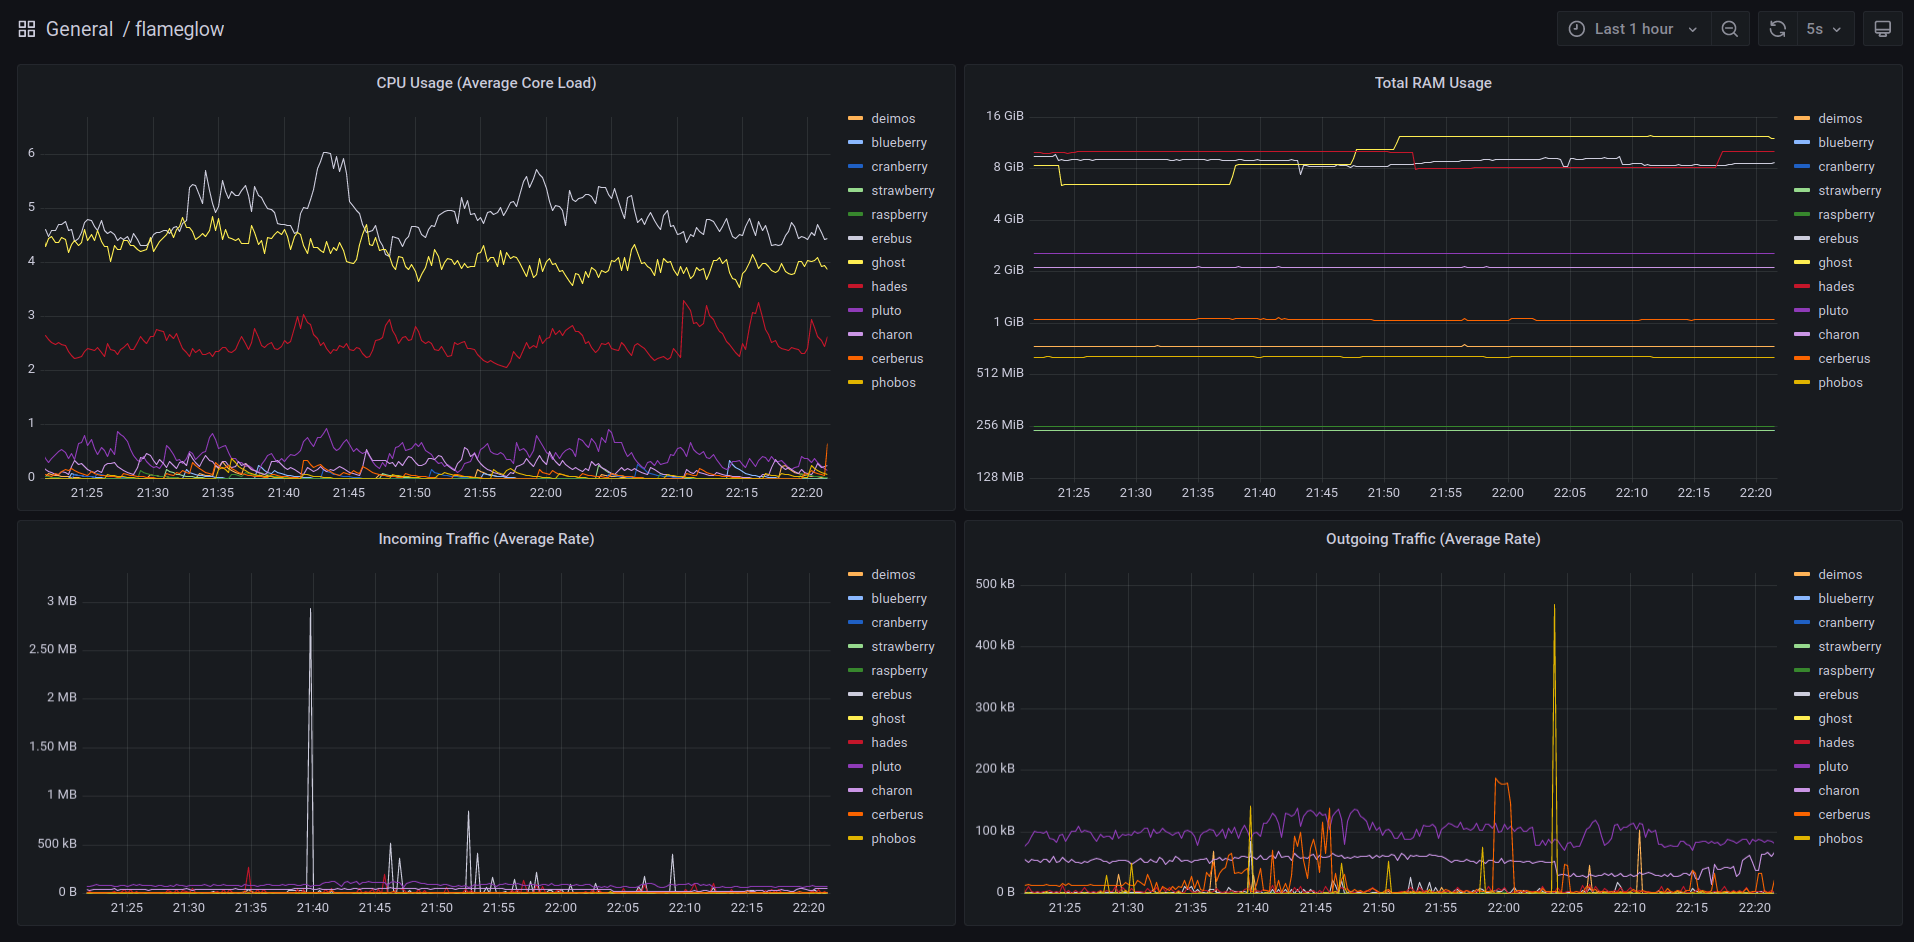
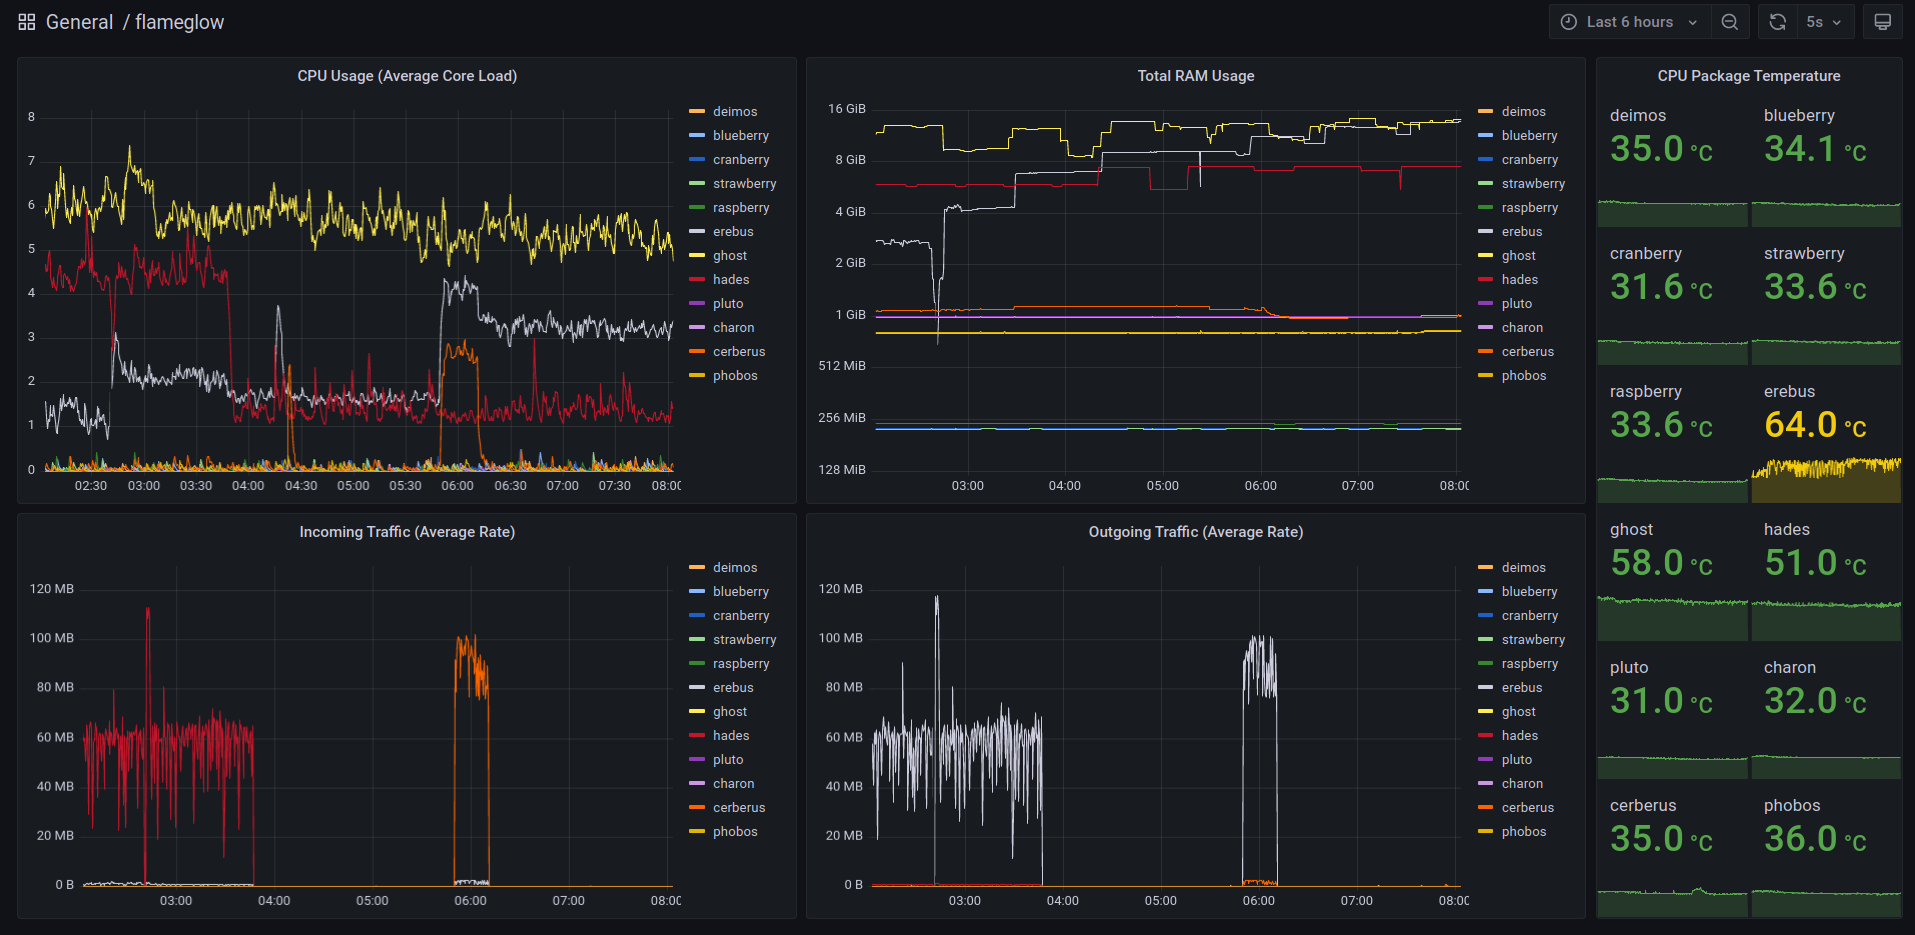
Added support for CPU temperature

diff --git a/scripts/os_stats.py b/scripts/os_stats.py
@@ -1,0 +1,185 @@
+#!/usr/bin/env python3
+'''
+@author: Winter Snowfall
+@version: 1.20
+@date: 08/08/2021
+
+Warning: Built for use with python 3.6+
+'''
+
+import logging
+import os
+from logging.handlers import RotatingFileHandler
+#uncomment for debugging purposes only
+import traceback
+
+##logging configuration block
+log_file_full_path = os.path.join('..', 'logs', 'os_stats.log')
+logger_file_handler = RotatingFileHandler(log_file_full_path, maxBytes=104857600, backupCount=2, encoding='utf-8')
+logger_format = '%(asctime)s %(levelname)s : %(name)s >>> %(message)s'
+logger_file_handler.setFormatter(logging.Formatter(logger_format))
+#logging level for other modules
+logging.basicConfig(format=logger_format, level=logging.ERROR)
+logger = logging.getLogger(__name__)
+logger.addHandler(logger_file_handler)
+
+PROC_LOADAVG_PATH = '/proc/loadavg'
+PROC_MEMINFO_PATH = '/proc/meminfo'
+PROC_UPTIME_PATH = '/proc/uptime'
+PROC_NET_DEV_PATH = '/proc/net/dev'
+
+SYS_RASPBERRY_PI_HOST_TYPE = 'raspberrypi'
+SYS_CPU_THERMAL_ZONE_TYPE_PI = 'cpu-thermal'
+SYS_CPU_THERMAL_ZONE_TYPE_GENERIC = 'x86_pkg_temp'
+
+class os_stats:
+    '''gather host stats using the /proc and /sys OS stat modules'''
+    
+    _logging_level = logging.WARNING
+    
+    def __init__(self, host_type, logging_level):
+        self._net_intf_name = None
+        self._net_intf_bytes_rec_prev = None
+        self._net_intf_bytes_trans_prev = None
+        self._net_intf_bytes_rec = 0
+        self._net_intf_bytes_trans = 0
+        
+        self._thermal_zone_identifier = 0
+        
+        self.avg_cpu_usage = 0
+        self.memory_load = 0
+        self.uptime = 0
+        self.net_rec_rate = 0
+        self.net_trans_rate = 0
+        
+        self.cpu_package_temp = 0
+        
+        #defaults to WARNING otherwise
+        if logging_level == 'DEBUG':
+            self._logging_level = logging.DEBUG
+        elif logging_level == 'INFO':
+            self._logging_level = logging.INFO
+            
+        self._host_type = host_type
+            
+        #logging level for current logger
+        logger.setLevel(self._logging_level)
+        
+        self.detect_thermal_zone_path()
+    
+    def set_net_intf_name(self, net_intf_name):
+        self._net_intf_name = net_intf_name
+    
+    def detect_thermal_zone_path(self):
+        logger.info(f'Detecting CPU package thermal zone for {self._host_type} host type...')
+        
+        try:
+            #how many thermal zones can a system have?
+            for i in range(0, 100):
+                logger.debug(f'Atempting CPU package thermal zone detection for: {i}...')
+                
+                with open(f'/sys/class/thermal/thermal_zone{i}/type', 'r') as zone_type:
+                    detected_zone_type = zone_type.read().strip()
+                    logger.debug(f'detected_zone_type: {detected_zone_type}')
+                    
+                    if self._host_type == SYS_RASPBERRY_PI_HOST_TYPE:
+                        if detected_zone_type == SYS_CPU_THERMAL_ZONE_TYPE_PI:
+                            self._thermal_zone_identifier = i
+                            logger.info('Succesfully detected CPU package thermal zone.')
+                            break
+                    else:
+                        if detected_zone_type == SYS_CPU_THERMAL_ZONE_TYPE_GENERIC:
+                            self._thermal_zone_identifier = i
+                            logger.info('Succesfully detected CPU package thermal zone.')
+                            break
+        except:
+            logger.critical('Thermal zones have been exhausted without detection.')
+            raise
+                 
+    def clear_stats(self):
+        self._net_intf_bytes_rec = 0
+        self._net_intf_bytes_trans = 0
+        
+        self.avg_cpu_usage = 0
+        self.memory_load = 0
+        self.uptime = 0
+        self.net_rec_rate = 0
+        self.net_trans_rate = 0
+        
+        self.cpu_package_temp = 0
+        
+    def collect_stats(self):
+        logger.info('+++ Starting data collection run +++')
+        
+        try:
+            #/proc/loadavg file parsing
+            with open(PROC_LOADAVG_PATH, 'r') as loadavg:
+                self.avg_cpu_usage = loadavg.read().split()[0]
+                
+                logger.debug(f'avg_cpu_usage: {self.avg_cpu_usage}')
+                
+            #/proc/meminfo file parsing
+            with open(PROC_MEMINFO_PATH, 'r') as meminfo:
+                memory_total = 0
+                memory_available = 0
+                
+                for line in meminfo.read().splitlines():
+                    if line.startswith('MemTotal'):
+                        memory_total = line.split(':')[1].strip().split()[0]
+                    elif line.startswith('MemAvailable'):
+                        memory_available = line.split(':')[1].strip().split()[0]
+                    if memory_total != 0 and memory_available != 0:
+                        break
+                        
+                self.memory_load = int(memory_total) - int(memory_available)
+                
+                logger.debug(f'memory_load: {self.memory_load}')
+                
+            #/proc/uptime file parsing
+            with open(PROC_UPTIME_PATH, 'r') as uptime:
+                self.uptime = int(float(uptime.read().split()[0]))
+                
+                logger.debug(f'uptime: {self.uptime}')
+                
+            #/proc/net/dev file parsing
+            with open(PROC_NET_DEV_PATH, 'r') as net_dev:
+                for line in net_dev.read().splitlines():
+                    if line.lstrip().startswith(self._net_intf_name):
+                        intf_line = line.split(':')[1].split()
+                        self._net_intf_bytes_rec = int(intf_line[0])
+                        self._net_intf_bytes_trans =  int(intf_line[8])
+                        break
+                    
+                logger.debug(f'_net_intf_bytes_rec: {self._net_intf_bytes_rec}')
+                logger.debug(f'_net_intf_bytes_trans: {self._net_intf_bytes_trans}')
+                    
+                logger.debug(f'_net_intf_bytes_rec_prev: {self._net_intf_bytes_rec_prev}')
+                logger.debug(f'_net_intf_bytes_trans_prev: {self._net_intf_bytes_trans_prev}')
+                
+                #won't do a delta on the first pass, so return 0
+                if self._net_intf_bytes_rec_prev is None and self._net_intf_bytes_trans_prev is None:
+                    self.net_rec_rate = 0
+                    self.net_trans_rate = 0
+                else:
+                    self.net_rec_rate = self._net_intf_bytes_rec - self._net_intf_bytes_rec_prev
+                    self.net_trans_rate = self._net_intf_bytes_trans - self._net_intf_bytes_trans_prev
+
+                #setup delta for next iteration
+                self._net_intf_bytes_rec_prev = self._net_intf_bytes_rec
+                self._net_intf_bytes_trans_prev = self._net_intf_bytes_trans
+                
+                logger.debug(f'net_rec_rate: {self.net_rec_rate}')
+                logger.debug(f'net_trans_rate: {self.net_trans_rate}')
+                
+            #/sys/class/thermal/thermal_zone*/temp parsing
+            with open(f'/sys/class/thermal/thermal_zone{self._thermal_zone_identifier}/temp', 'r') as temp:
+                self.cpu_package_temp = int(temp.read())
+                    
+                logger.debug(f'cpu_package_temp: {self.cpu_package_temp}')
+            
+        except:
+            #uncomment for debugging purposes only
+            logger.error(traceback.format_exc())
+            raise
+            
+        logger.info('--- Data collection complete ---')

diff --git a/scripts/flameglow.py b/scripts/flameglow.py
@@ -1,7 +1,7 @@
 #!/usr/bin/env python3
 '''
 @author: Winter Snowfall
-@version: 1.10
+@version: 1.20
 @date: 08/08/2021
 
 Warning: Built for use with python 3.6+
@@ -10,7 +10,7 @@ Warning: Built for use with python 3.6+
 from prometheus_client import start_http_server, Gauge
 from configparser import ConfigParser
 from time import sleep
-from proc_stats import proc_stats
+from os_stats import os_stats
 import threading
 import signal
 import os
@@ -23,7 +23,7 @@ conf_file_full_path = os.path.join('..', 'conf', 'flameglow.conf')
 
 # Prometheus client metrics
 
-#---------------------- proc_stats ----------------------------------------------
+#---------------------- os_stats ----------------------------------------------
 proc_stats_avg_cpu_usage = Gauge('proc_stats_avg_cpu_usage', 'Average CPU usage over the last minute')
 proc_stats_memory_load = Gauge('proc_stats_memory_load', 'Current RAM memory usage')
 proc_stats_uptime = Gauge('proc_stats_uptime', 'System uptime in seconds')
@@ -31,8 +31,12 @@ proc_stats_rec_rate = Gauge('proc_stats_rec_rate', 'Bytes received on the specif
 proc_stats_trans_rate = Gauge('proc_stats_trans_rate', 'Byes transmitted on the specified network interface')
 #--------------------------------------------------------------------------------
 
+#---------------------- sys_stats ----------------------------------------------
+sys_stats_cpu_package_temp = Gauge('sys_stats_cpu_package_temp', 'Current CPU package temperature')
+#--------------------------------------------------------------------------------
+
 def sigterm_handler(signum, frame):
-    print(f'\n\nThank you for using chiatter. I can only hope it wasn\'t too painfull. Bye!')
+    print(f'\n\nThank you for using flameglow. Bye!')
     raise SystemExit(0)
 
 def http_server():
@@ -54,6 +58,7 @@ if __name__ == '__main__':
         PROMETHEUS_CLIENT_PORT = general_section.getint('prometheus_client_port')
         STATS_COLLECTION_INTERVAL = general_section.getint('collection_interval')
         NET_INTF_NAME = general_section.get('network_interface_name')
+        HOST_TYPE = general_section.get('host_type')
         LOGGING_LEVEL = general_section.get('logging_level')
 
     except:
@@ -64,20 +69,22 @@ if __name__ == '__main__':
     http_server_thread = threading.Thread(target=http_server, args=(), daemon=True)
     http_server_thread.start()
     
-    proc_stats_inst = proc_stats(LOGGING_LEVEL)
-    proc_stats_inst.set_net_intf_name(NET_INTF_NAME)
+    os_stats_inst = os_stats(HOST_TYPE, LOGGING_LEVEL)
+    os_stats_inst.set_net_intf_name(NET_INTF_NAME)
     
     while True:
         try:
-            proc_stats_inst.clear_stats()
-            proc_stats_inst.collect_stats()
+            os_stats_inst.clear_stats()
+            os_stats_inst.collect_stats()
             
-            proc_stats_avg_cpu_usage.set(proc_stats_inst.avg_cpu_usage)
-            proc_stats_memory_load.set(proc_stats_inst.memory_load)
-            proc_stats_uptime.set(proc_stats_inst.uptime)
+            proc_stats_avg_cpu_usage.set(os_stats_inst.avg_cpu_usage)
+            proc_stats_memory_load.set(os_stats_inst.memory_load)
+            proc_stats_uptime.set(os_stats_inst.uptime)
             #always report average rates per second, regardless of collection interval
-            proc_stats_rec_rate.set(proc_stats_inst.net_rec_rate / STATS_COLLECTION_INTERVAL)
-            proc_stats_trans_rate.set(proc_stats_inst.net_trans_rate / STATS_COLLECTION_INTERVAL)
+            proc_stats_rec_rate.set(os_stats_inst.net_rec_rate / STATS_COLLECTION_INTERVAL)
+            proc_stats_trans_rate.set(os_stats_inst.net_trans_rate / STATS_COLLECTION_INTERVAL)
+            
+            sys_stats_cpu_package_temp.set(os_stats_inst.cpu_package_temp)
             
             sleep(STATS_COLLECTION_INTERVAL)
             

diff --git a/README.md b/README.md
@@ -1,5 +1,5 @@
 # flameglow
-A basic Linux OS stats collection agent/Prometheus client meant to serve as code reference and/or light use. It uses the proc filesystem as a local data source.
+A basic Linux OS stats collection agent/Prometheus client meant to serve as code reference and/or light use. It uses the /proc filesystem as a local data source and /sys for temperature readings.
 
 ![flameglow_grafana](flameglow_grafana.png)
 
